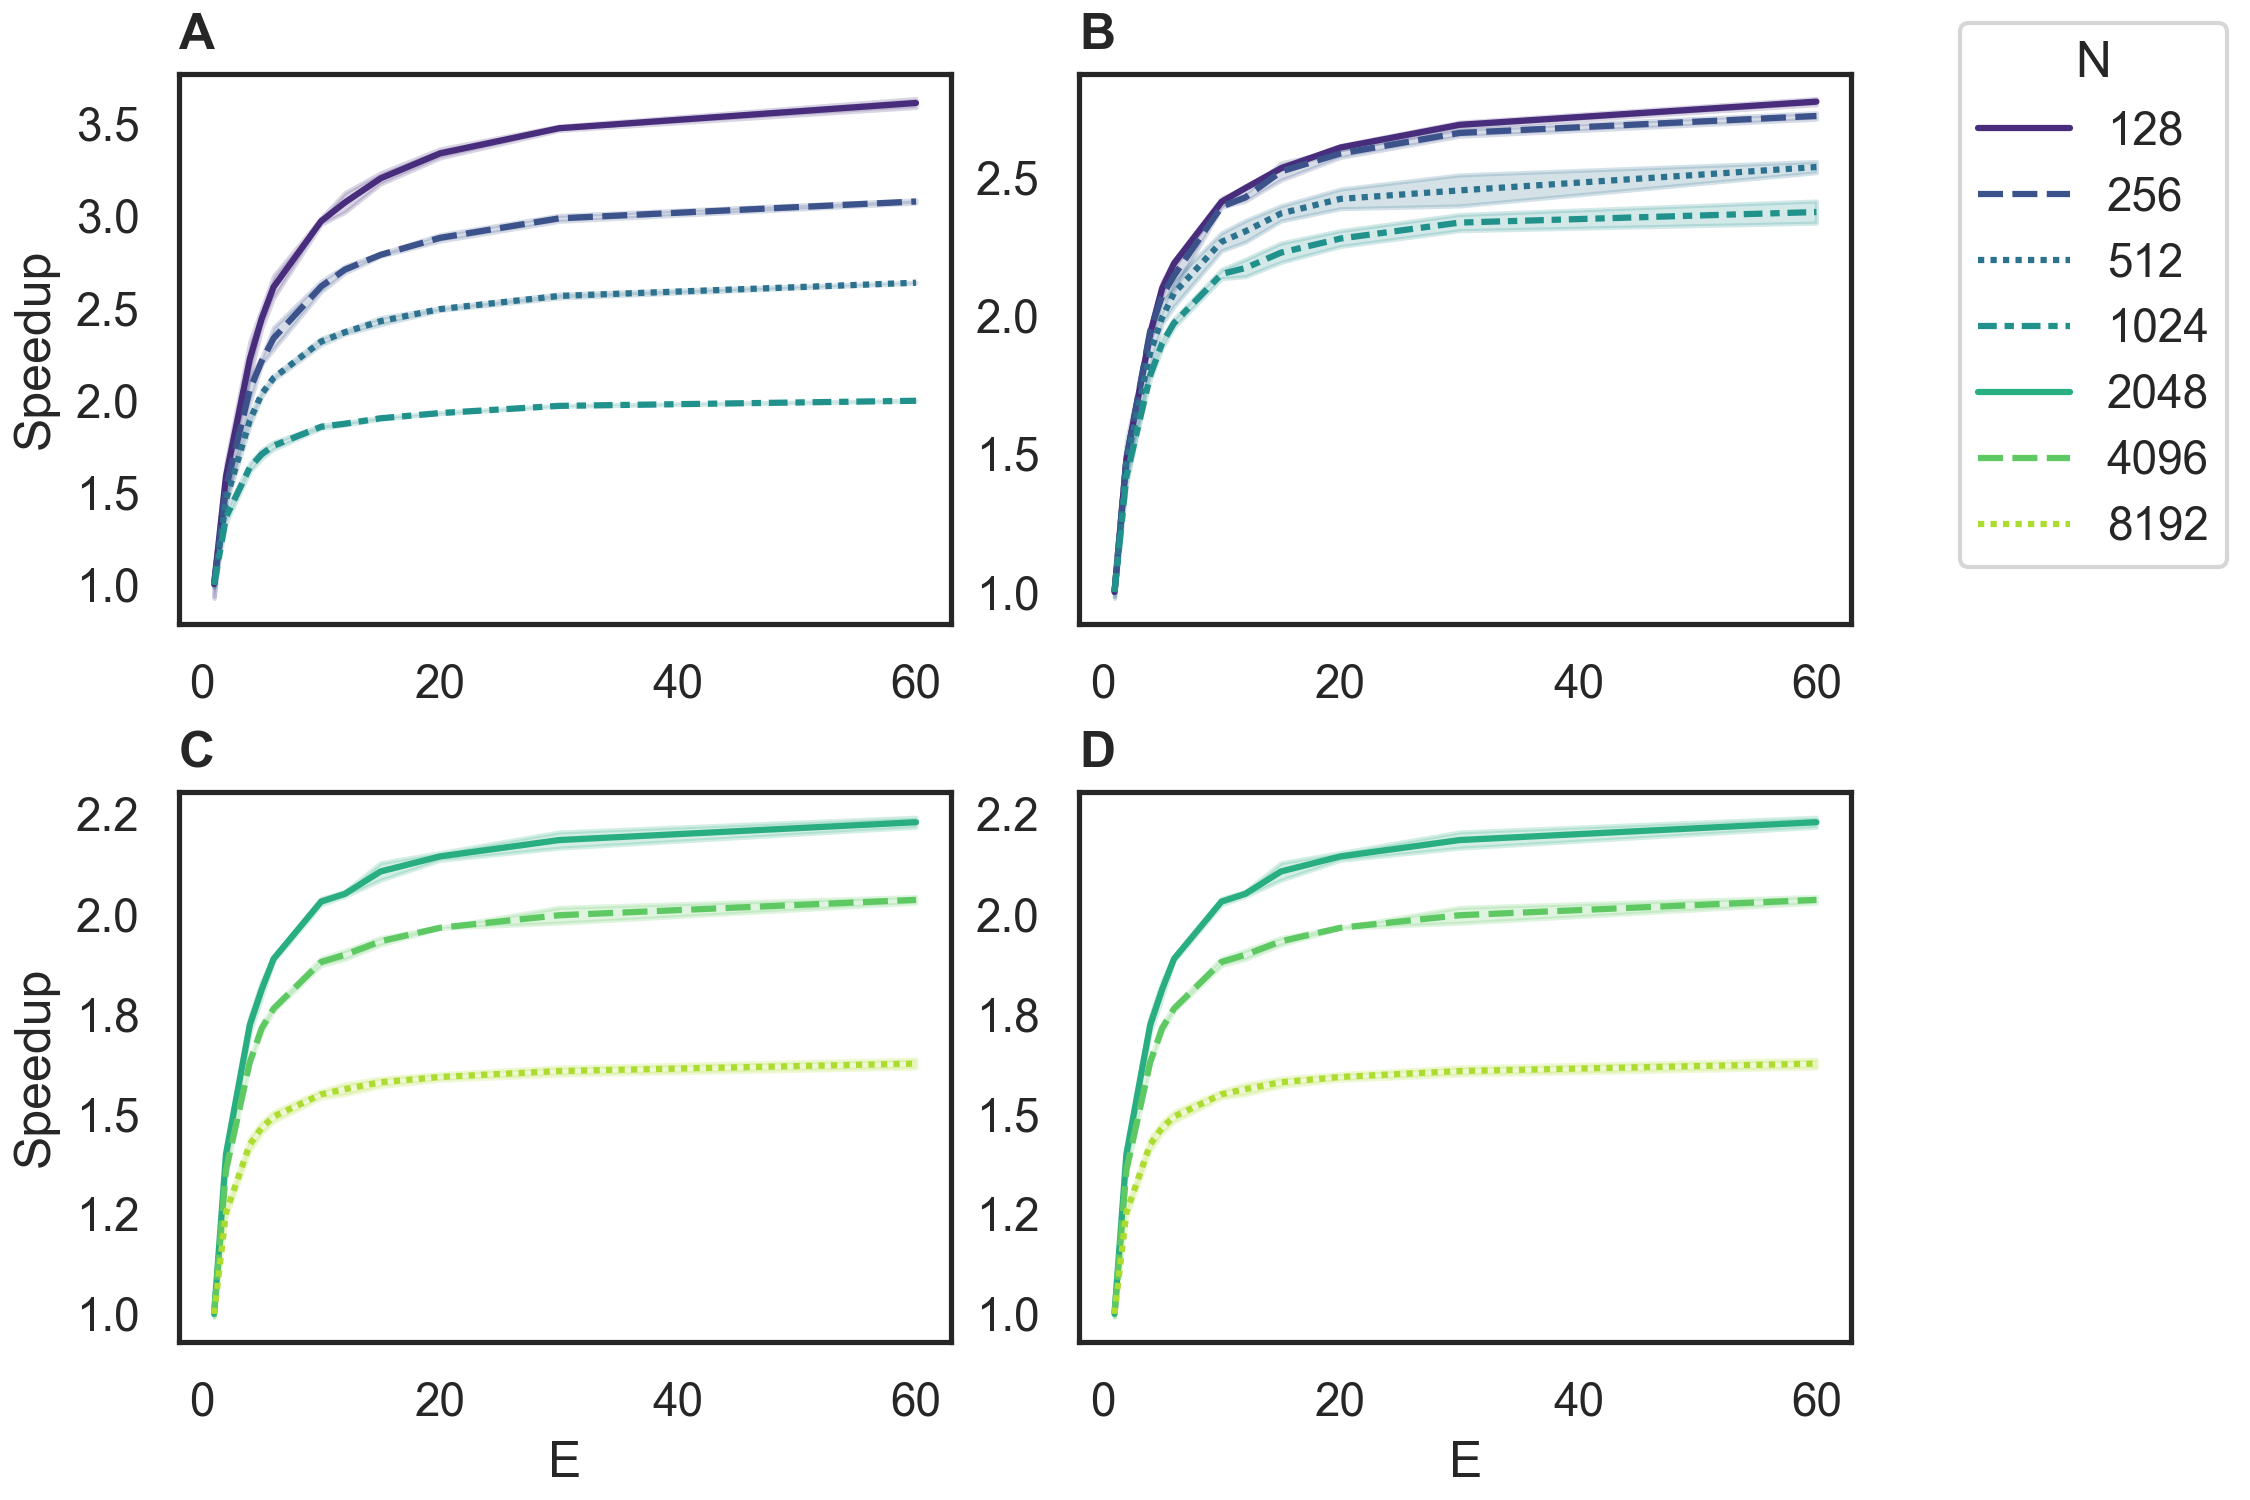
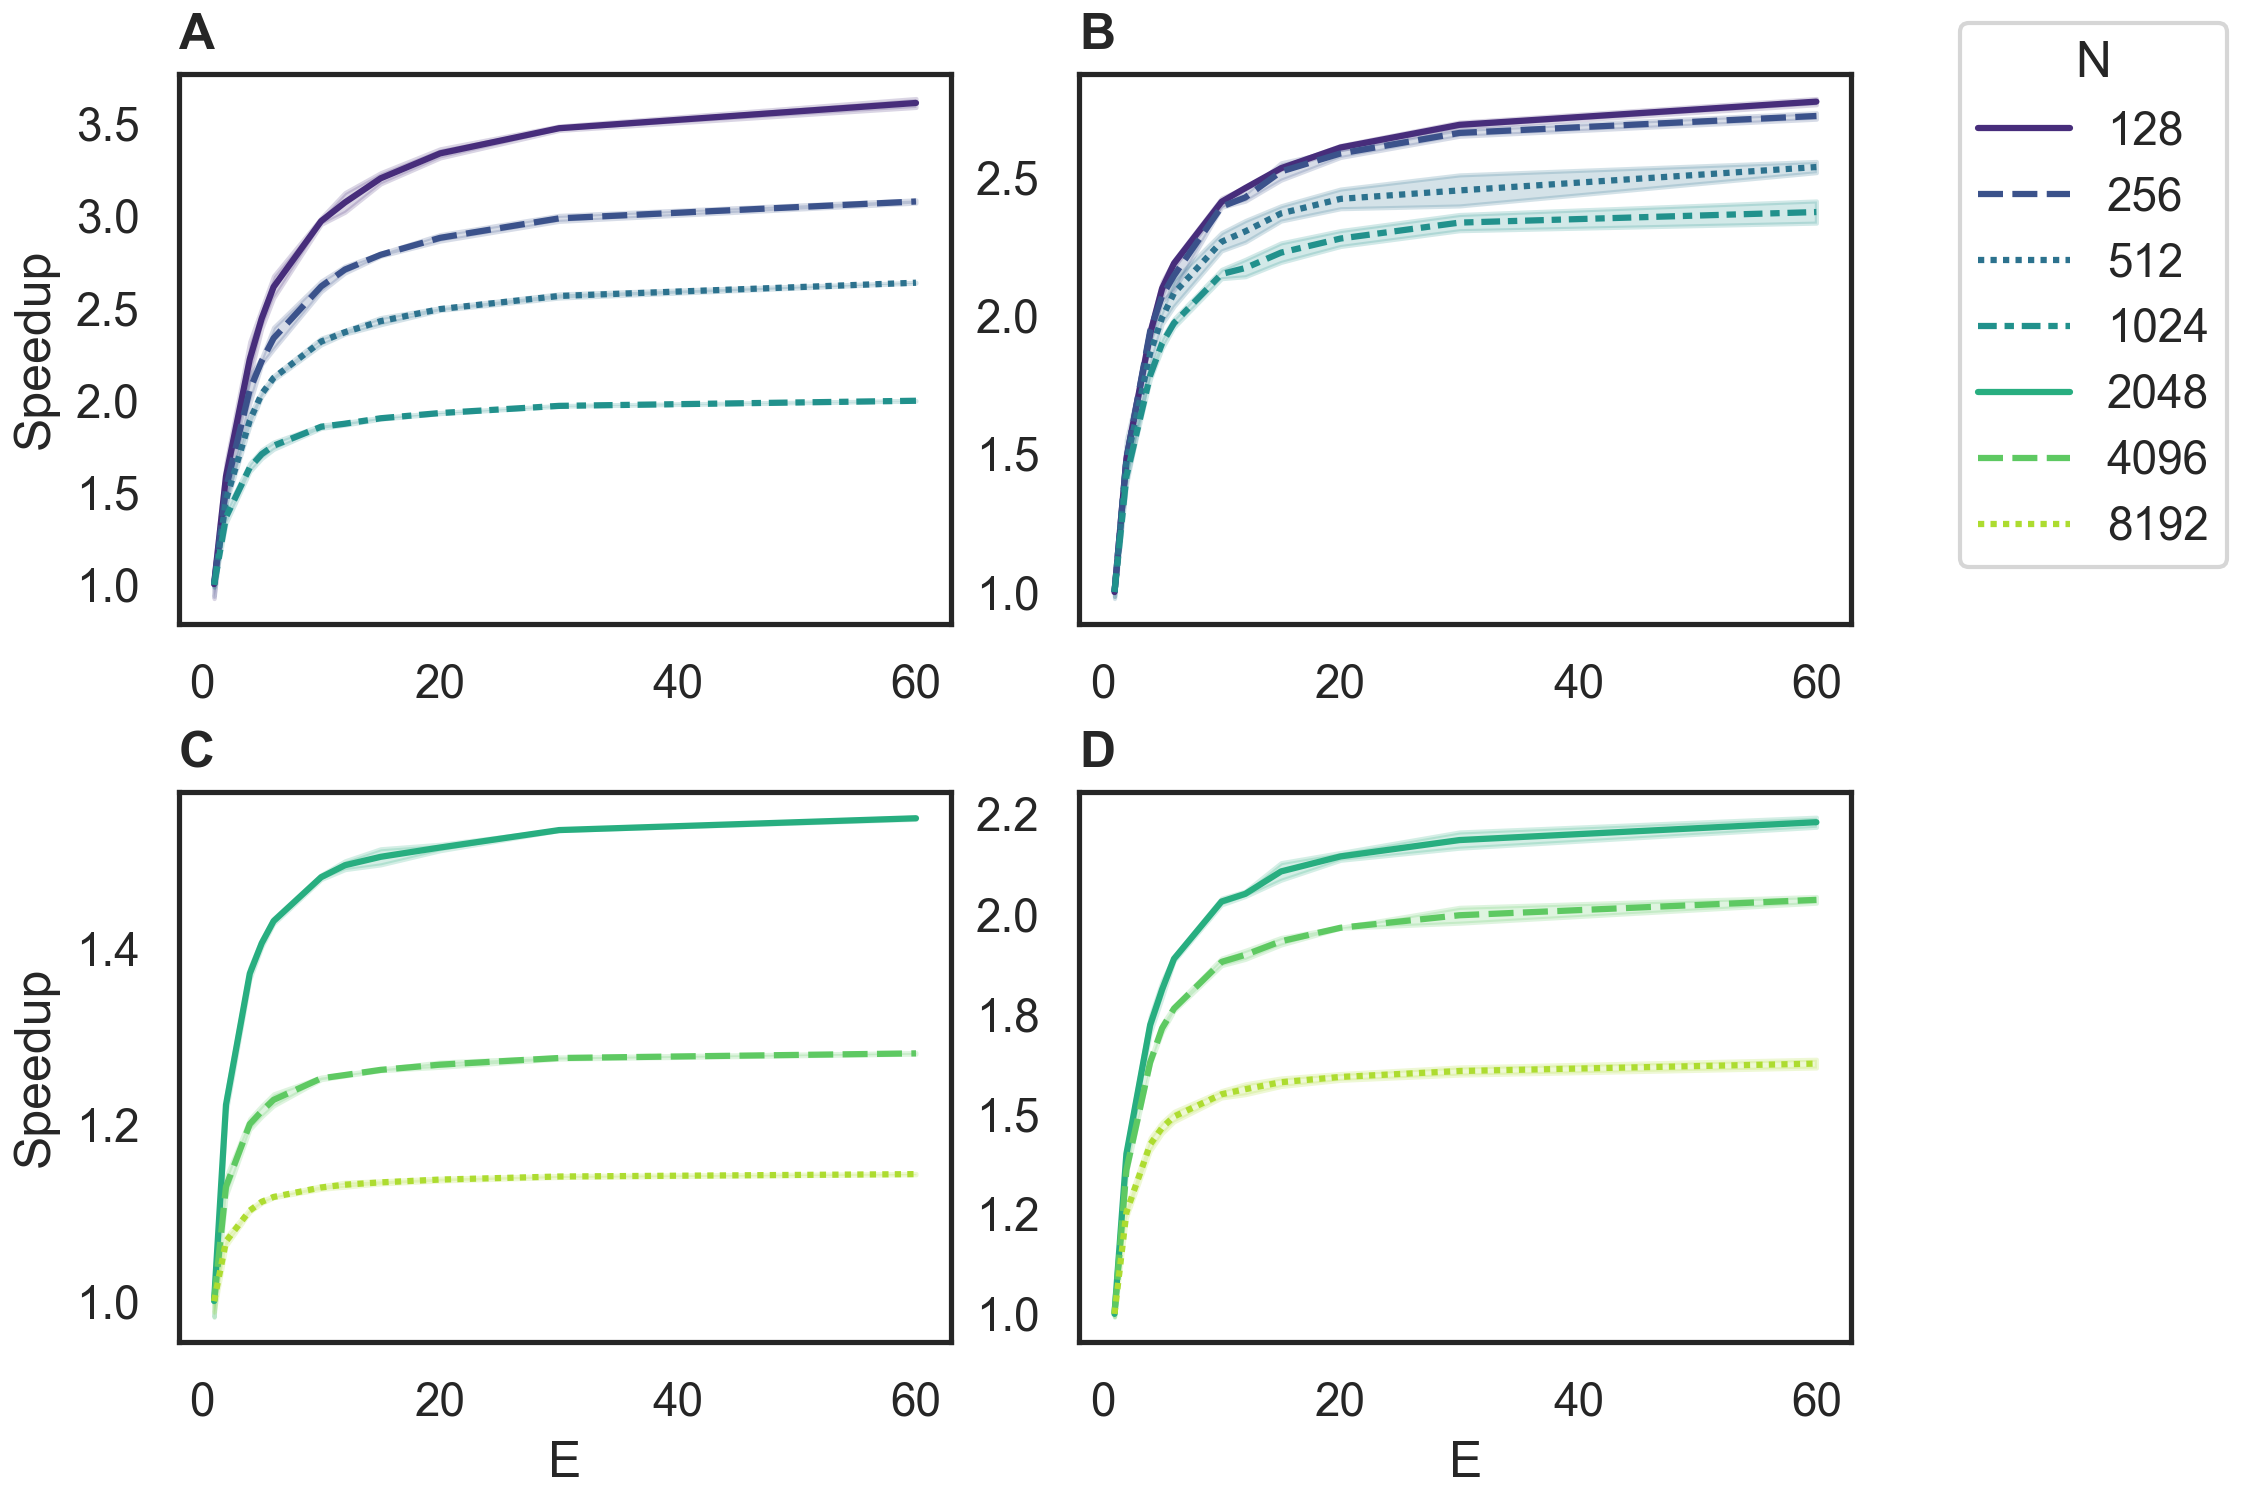
fixed typo in publication plot

diff --git a/plot_publication.py b/plot_publication.py
@@ -160,9 +160,9 @@ def main():
     ax['p2'].set_title(label='B', loc='left', fontweight="bold")
     ax['p2'].legend().set_visible(False)
     
-    # LARGE_POP_SPATIAL_CSV_FILENAME
+    # LARGE_POP_BF_CSV_FILENAME
     # Load per simulation step data into data frame (strip any white space)
-    df = pd.read_csv(input_dir/LARGE_POP_SPATIAL_CSV_FILENAME, sep=',', quotechar='"')
+    df = pd.read_csv(input_dir/LARGE_POP_BF_CSV_FILENAME, sep=',', quotechar='"')
     df.columns = df.columns.str.strip()
     # select subset of the pop sizes for plotting
     df = df[df['pop_size'].isin(LARGE_POP_SIZES)]
